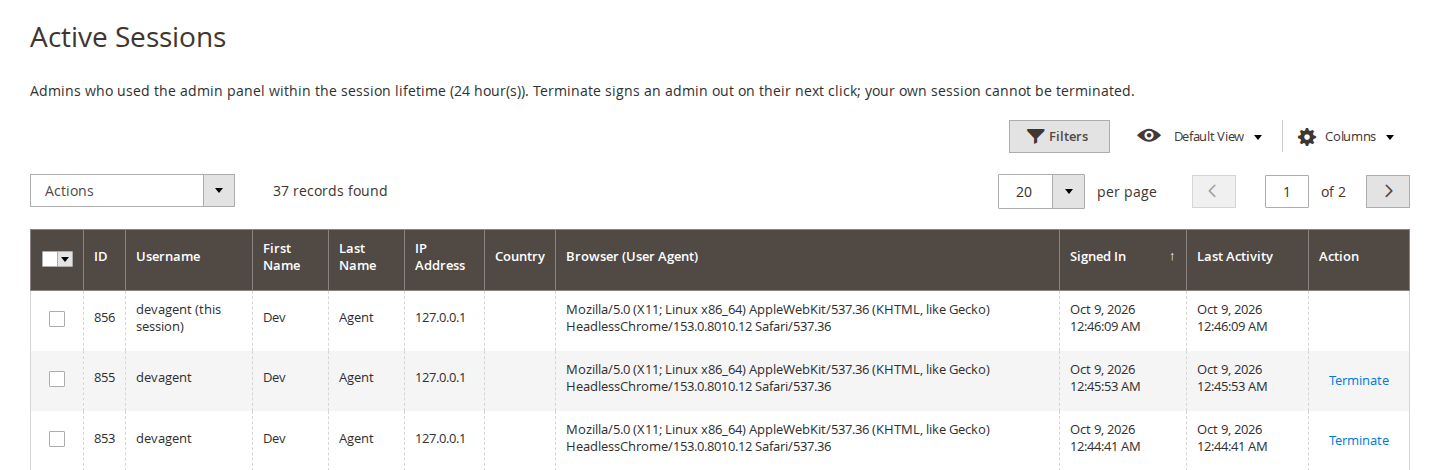
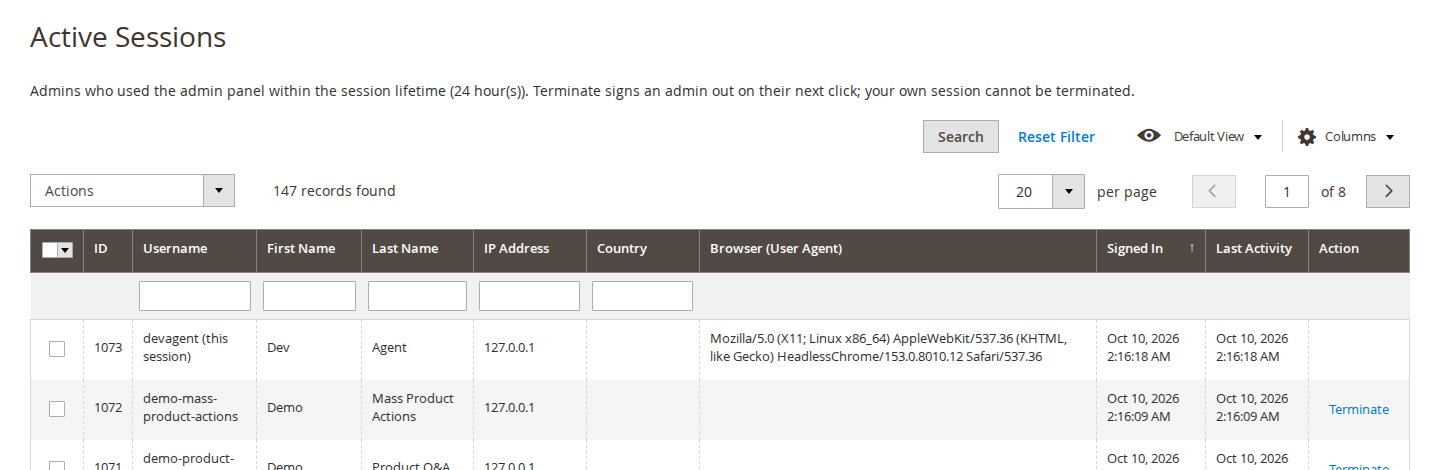
Docs, translations and screenshots for 1.4.0

diff --git a/docs/user-guide.md b/docs/user-guide.md
@@ -110,10 +110,33 @@ What is logged:
   deleted counts.
 - **Command line:** configuration changes made with `bin/magento config:set` (admin page "cli: config:set").
 
-Columns: ID, Time, Admin User, Action (Create, Update, Delete, Move, Mass action, Import), Entity Type, Entity ID,
-Entity, Changed Fields, IP Address and Details. The grid has keyword search (admin user, entity, entity ID, IP
-address, admin page, request ID), filters, saved views, a column chooser and **Export** to CSV or XML. The line above
-the grid says how long entries are kept, and a warning appears when the action log is switched off.
+Columns: ID, Time, Admin User, Action, Entity Type, Entity ID, Entity, Changed Fields, IP Address and Details. The
+grid has keyword search (admin user, entity, entity ID, IP address, admin page, request ID), saved views, a column
+chooser and **Export** to CSV or XML. The line above the grid says how long entries are kept, and a warning appears
+when the action log is switched off.
+
+The action names follow the Adobe Commerce action log (Save rather than Update, Mass Update and Mass Delete rather
+than one "Mass action"):
+
+| Action | Meaning |
+| --- | --- |
+| New | A record was created. |
+| Save | A record or configuration value was changed. |
+| Delete | A record was deleted. |
+| Move | A category was moved in the category tree. |
+| Mass Update | A grid mass action other than delete (for example change status), or the product "Update attributes" action. |
+| Mass Delete | A grid mass delete. |
+| Import | An import under System > Data Transfer > Import. |
+| Cancel, Hold, Unhold | An order was cancelled, put on hold or released (single or from the orders grid). |
+
+### Filters
+
+The filter row sits directly under the column headings, as in Adobe Commerce: a from/to range for ID, Time and
+Changed Fields, a list for Action and Entity Type, and a text field for the other columns. Type or choose values and
+press **Enter** or click **Search**; **Reset Filter** clears all filters. The filters in use are listed above the grid
+("Active filters"), where each one can be removed. Columns hidden with **Columns** have no filter field. When you
+scroll down, the filter button in the sticky header takes you back to the filter row. Saved views (**Default View**)
+remember the filters, and **Export** uses them.
 
 ### Entry details
 
@@ -134,23 +157,23 @@ characters.
 
 ## 5. Login Log
 
-**Softaware > Admin Activity Log > Login Log** lists sign-in events, newest first, with time, username, result,
+**Softaware > Admin Activity Log > Login Log** lists sign-in events, newest first, with time, username, action,
 reason, IP address, country and browser.
 
 ![Login Log](images/admin-login-log.png)
 
-| Result | Meaning |
+| Action | Meaning |
 | --- | --- |
-| Signed in | A successful sign-in. |
-| Failed | A failed sign-in, with the reason: Unknown username, Wrong password, Account is inactive, or the account is locked. |
-| Locked out | Magento locked the admin account after too many failed attempts. |
-| Blocked (IP) | The IP address is not on the admin allowlist. |
-| Signed out | The admin signed out. |
+| Login | A successful sign-in. |
+| Login Failed | A failed sign-in, with the reason: Unknown username, Wrong password, Account is inactive, or the account is locked. |
+| Account Locked | Magento locked the admin account after too many failed attempts. |
+| Login Blocked (IP) | The IP address is not on the admin allowlist. |
+| Logout | The admin signed out. |
 
 The country column is filled from Cloudflare's `CF-IPCountry` header when it is present. An unknown username that
 could be a password typed into the wrong field (7 or more characters with letters and digits, not an email address)
-is stored partly masked, for example `Se*** (masked, may be a password)`. The grid has keyword search, filters and
-CSV or XML export.
+is stored partly masked, for example `Se*** (masked, may be a password)`. The grid has keyword search, the same filter
+row under the column headings as Admin Actions, and CSV or XML export.
 
 ## 6. Active Sessions
 

diff --git a/README.md b/README.md
@@ -12,6 +12,8 @@ User guide: [docs/user-guide.md](docs/user-guide.md) · FAQ: [docs/faq.md](docs/
   products, categories (including moves in the category tree), CMS pages and blocks, customers, orders,
   invoices, shipments, credit memos, order/document comments, cart price rules, catalog price rules,
   configuration (path, scope, old and new value), admin users, admin roles and role permissions.
+- **Action names that follow the Adobe Commerce action log**: New, Save, Delete, Move, Mass Update, Mass Delete,
+  Import, and Cancel, Hold and Unhold for orders. The Login Log shows Login, Login Failed, Account Locked, Login Blocked (IP) and Logout.
 - **Mass actions** (`mass*` grid actions, product "Update attributes") are logged with the selection and the
   parameters; records saved by the mass action are logged individually and linked through the request ID.
 - **Imports** (System > Data Transfer > Import): entity, behaviour, processed rows, created/updated/deleted counts.
@@ -30,8 +32,9 @@ User guide: [docs/user-guide.md](docs/user-guide.md) · FAQ: [docs/faq.md](docs/
   M minutes, admin account lockouts, sign-in from a new IP address, sign-in from a new country.
 - **Admin IP allowlist** (single IPs and CIDR ranges, IPv4/IPv6). Refuses to save a list that does not include
   your own IP, and has a CLI way back in.
-- **Grids** with keyword search, filters (admin user, entity type, action, date range, IP, entity, admin page),
-  bookmarks and **CSV/XML export**; a **detail view** of each change (old and new value per field) with a link to
+- **Grids** with keyword search, a **filter row under the column headings** (as in the Adobe Commerce action log:
+  date range, admin user, action, entity type, entity, IP address and the other visible columns; Enter or **Search**
+  applies, **Reset Filter** clears), bookmarks, column chooser and **CSV/XML export**; a **detail view** of each change (old and new value per field) with a link to
   the record and the other changes made in the same request. Each grid page says how long entries are kept and
   warns when the matching log is switched off.
 - **Retention**: entries older than N days are deleted by a daily cron job (in batches). Changes to the Activity

diff --git a/CHANGELOG.md b/CHANGELOG.md
@@ -1,5 +1,26 @@
 # Changelog
 
+## 1.4.0 (2026-10-10)
+
+### Changed
+- Admin Actions, Login Log and Active Sessions grids: the filters sit in a row directly under the column headings, as
+  in the Adobe Commerce action log report, instead of behind the "Filters" button. Enter or **Search** applies them,
+  **Reset Filter** clears them; the applied filters are still listed above the grid, and saved views, the column
+  chooser and export keep working. In the sticky header the filter button scrolls back to the filter row.
+- Action names follow the Adobe Commerce action log: Save (was Update), New (was Create), Mass Update and Mass Delete
+  (was one "Mass action"), and Cancel, Hold and Unhold for orders cancelled, put on hold or released (single or from
+  the orders grid). The product "Update attributes" action is recorded as Mass Update.
+- Login Log: the column is headed Action and reads Login, Login Failed, Account Locked, Login Blocked (IP) and Logout.
+- A data patch converts existing entries during `setup:upgrade`: "mass_action" becomes "mass_delete" (massDelete,
+  massRemove) or "mass_update", and order saves made by Cancel / Hold / Unhold get those actions. Stored codes for
+  create, update and delete are unchanged, so filters, saved views and exports keep working.
+
+### Fixed
+- Security notifications no longer leave Magento's admin URL builder without secret keys for the rest of the request.
+  With "Add Secret Key to URLs" on, a sign-in that triggered a notice could send the admin to the dashboard instead of
+  the page they asked for (for example a redirect after sign-in built later in the same request).
+- Login Log: the Result (now Action) filter had no options to choose from.
+
 ## 1.3.2 (2026-10-08)
 
 ### Added

diff --git a/docs/faq.md b/docs/faq.md
@@ -60,5 +60,11 @@ from Cloudflare's published address ranges.
 **Can I export the log?**
 Yes. The Admin Actions and Login Log grids export to CSV and XML, with the filters you have set.
 
+**Why do older entries show "Save" and "Mass Update" after updating to 1.4.0?**
+Since 1.4.0 the action names follow the Adobe Commerce action log ("Save" instead of "Update", "Mass Update" and
+"Mass Delete" instead of "Mass action", "Login" and "Logout" in the Login Log). `bin/magento setup:upgrade` converts
+the stored mass action and order Cancel / Hold / Unhold entries, so filters and exports use the same names for old and
+new entries.
+
 **Which Magento and PHP versions are supported?**
 Magento Open Source and Adobe Commerce 2.4.7 to 2.4.9, PHP 8.2 to 8.5. The module is admin only.
